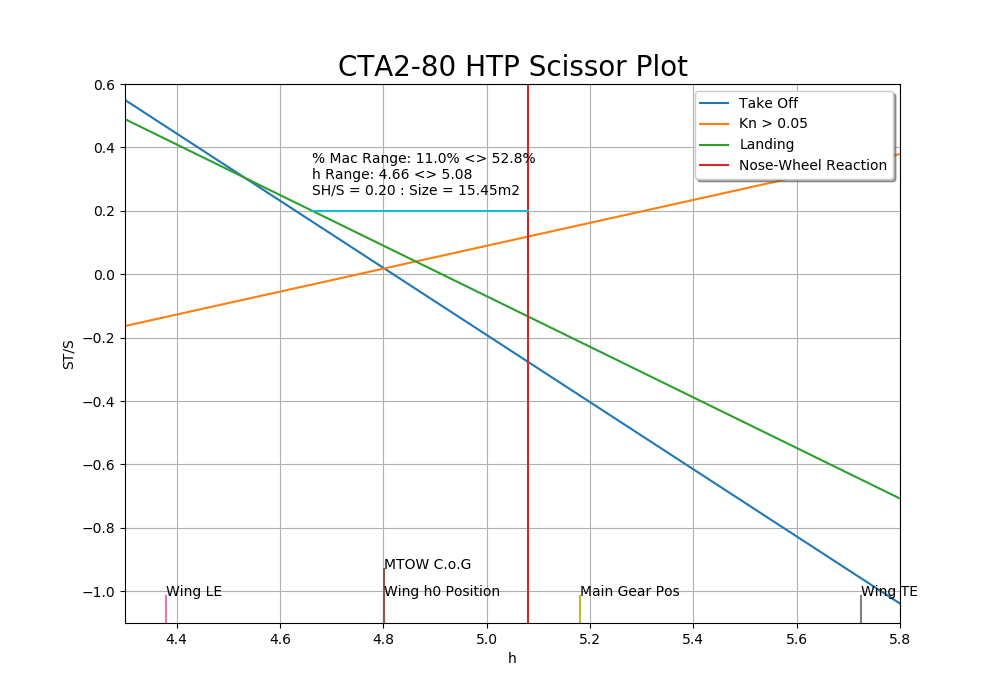
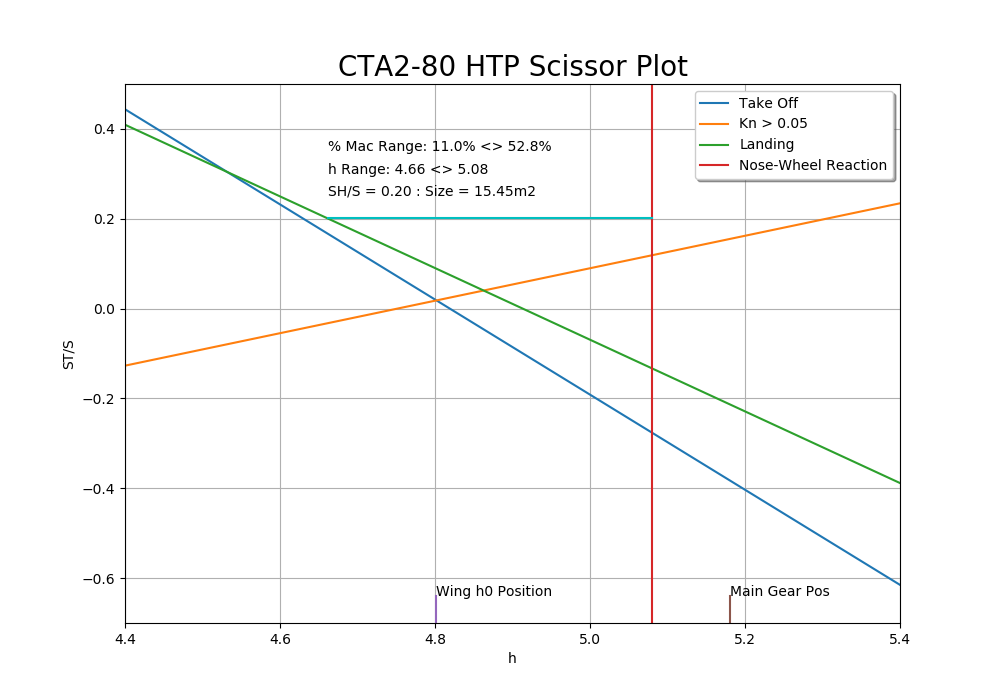
Update plots and tidy graphs

diff --git a/scissorplot.py b/scissorplot.py
@@ -129,6 +129,13 @@ def kn(h):
     return lhs_top/lhs_bottom
 
 
+def get_kn(fraction, h):
+    tail_moment_arm = (lvtp_cad_value / c_bar) - h0  # The tail moment to h
+    d_e_alpha = 0.2
+    return h0-h+(fraction*tail_moment_arm*(a1/a)*(1-d_e_alpha))
+
+
+
 def size_finder_delta(x_h, left_y, right_y, static_y, hrange):
     y_find = []
     x_find = []
@@ -207,7 +214,7 @@ def v_bar(size):
     print("v_bar: " + str(size*tail_moment_arm))
 
 
-def plotit(r1, r2, search_mac, common=False):
+def plotit(r1, r2, search_mac, common=False, ylims=None):
     # Create Range of h values
     step = 0.1
     r2 = r2 + step
@@ -232,10 +239,15 @@ def plotit(r1, r2, search_mac, common=False):
     y_heads.append(max(landing(x_h)))
 
     """This section constrains the graph correctly"""
-    max_y = myceil(max(y_heads), step)
-    #print(max_y)
-    min_y = myfloor((min(y_tails)), step)
-    #print(min_y)
+    if ylims is not None:
+        max_y = myceil(max(y_heads), step)
+        #print(max_y)
+        min_y = myfloor((min(y_tails)), step)
+        #print(min_y)
+    else:
+        max_y = ylims[1]
+        min_y = ylims[0]
+
     plt.ylim(min_y, max_y)
     plt.xlim(r1, r2-0.1)
 
@@ -251,15 +263,15 @@ def plotit(r1, r2, search_mac, common=False):
     plt.plot([h0, h0], [ref_tail, ref_head])
     plt.annotate("Wing h0 Position", [h0, ref_head])
     # Plot MTOW CoG position (approx)
-    plt.plot([mtow_pos, mtow_pos], [ref_tail, ref_head+(ref_head-ref_tail)])
-    plt.annotate("MTOW C.o.G", [mtow_pos, ref_head+(ref_head-ref_tail)])
+    #plt.plot([mtow_pos, mtow_pos], [ref_tail, ref_head+(ref_head-ref_tail)])
+    #plt.annotate("MTOW C.o.G", [mtow_pos, ref_head+(ref_head-ref_tail)])
     # Plot Wing LE/TE position (approx)
     wingLE = (params['WingCentrePoint']-(params['Cr']/2))/c_bar
     wingTE = (params['WingCentrePoint'] + (params['Cr'] / 2)) / c_bar
-    plt.plot([wingLE, wingLE], [ref_tail, ref_head])
-    plt.annotate("Wing LE", [wingLE, ref_head])
-    plt.plot([wingTE, wingTE], [ref_tail, ref_head])
-    plt.annotate("Wing TE", [wingTE, ref_head])
+    #plt.plot([wingLE, wingLE], [ref_tail, ref_head])
+    #plt.annotate("Wing LE", [wingLE, ref_head])
+    #plt.plot([wingTE, wingTE], [ref_tail, ref_head])
+    #plt.annotate("Wing TE", [wingTE, ref_head])
     #Main Gear Position
     mainpos = params['MainGearPos']/c_bar
     plt.plot([mainpos, mainpos], [ref_tail, ref_head])
@@ -284,13 +296,14 @@ def plotit(r1, r2, search_mac, common=False):
     sizes.append(sizes_results[-1][2])
     size = sizes_results[sizes.index(max(sizes))]
     v_bar(size[2])
-    plt.plot([size[0], size[1]], [size[2], size[2]])
+    plt.plot([size[0], size[1]], [size[2], size[2]], 'c')
     plt.annotate("SH/S = " + str(format(size[2], '.2f')) + " : Size = " + str(format(size[2]*params['Sarea'], '.2f')) + "m2", [size[0], size[2]+0.05])
     plt.annotate("h Range: " + str(format(size[0], '.2f')) + " <> " + str(format(size[1], '.2f')), [size[0], size[2]+0.1])
     plt.annotate("% Mac Range: " + str(format(100*mac_finder_from_h(size[0]), '.1f')) + "% <> " + str(format(100*mac_finder_from_h(size[1]), '.1f')) + "%", [size[0], size[2]+0.15])
     print("h Range: " + str(format(size[0], '.2f')) + " <> " + str(format(size[1], '.2f')))
     print("% Mac Range: " + str(format(mac_finder_from_h(size[0]), '.2f')) + " <> " + str(format(mac_finder_from_h(size[1]), '.2f')))
     print("SH/S = " + str(format(size[2], '.2f')) + " : Size = " + str(format(size[2]*params['Sarea'], '.2f')) + "m2")
+    print("Min Kn = " + str(format(get_kn(size[2],size[1]), '.2f')))
     plt.grid(True)
     plt.legend(loc='upper right', shadow=True)
     if common is True:
@@ -302,5 +315,5 @@ def plotit(r1, r2, search_mac, common=False):
     plt.show()
 
 
-plotit(4.3, 5.8, [0.11, 0.41])
-plotit(4.3, 5.8, [0.08, 0.53], common=True)
+plotit(4.4, 5.4, [0.11, 0.41], ylims=[-0.4, 0.6])
+plotit(4.4, 5.4, [0.08, 0.53], ylims=[-0.4, 0.6], common=True)
